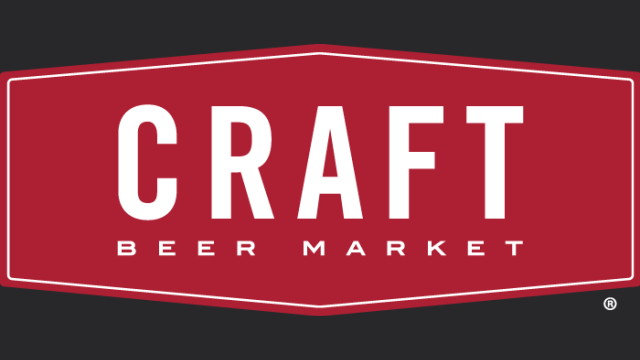
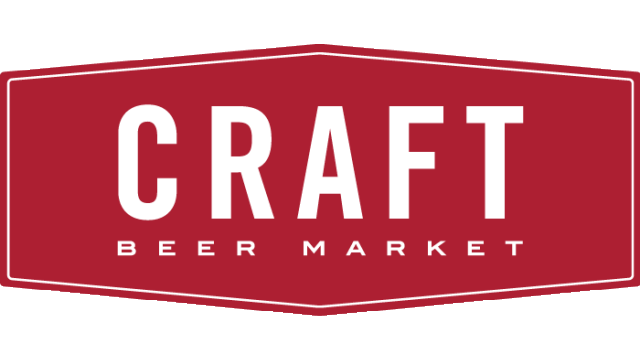
new images and card data for nightlife

diff --git a/src/constants/constants.js b/src/constants/constants.js
@@ -1,111 +1,173 @@
-// CARD EVENT DATA
+// NIGHTLIFE CARD DATA
 export const projects = [
-  // {
-  //   title: "National on 10th",
-  //   description: "National is a true destination for fun with friends, best-in-class craft beer, handcrafted cocktails and a thoughtfully curated food menu. The lower level of National 10 features a trendy 8-lane bowling alley complete with arcade games, music, drinks and a full menu.",
-  //   image: "/images/website-national.png",
-  //   tags: ["", "", "", ""],
-  //   // TICKETS
-  //   source: "",
-  //   // WEBPAGE LINK URL
-  //   visit: "https://www.ntnl.ca/10th-avenue",
-  //   id: 0,
-  // },
-  // {
-  //   title: "Craft",
-  //   description: "Craft is a premium casual restaurant and bar with a passion for fresh local food and great craft beer. Launched in Calgary in 2011, the CRAFT movement has been spreading across Canada ever since.",
-  //   image: "/images/craft-nobg.png",
-  //   tags: ["", ""],
-  //   // TICKETS
-  //   source: "",
-  //   // WEBPAGE LINK URL
-  //   visit: "https://www.craftbeermarket.ca/",
-  //   id: 1,
-  // },
-  // {
-  //   title: "Greta Bar",
-  //   description: "It's all fun and games at your favourite arcade bar. Join us at GRETA in YYC or YEG for good times, great food, and the best games.",
-  //   image: "/images/website-greta.png",
-  //   tags: ["", ""],
-  //   // TICKETS
-  //   source: "",
-  //   // WEBPAGE LINK URL
-  //   visit: "https://www.gretabar.com/",
-  //   id: 2,
-  // },
-  // {
-  //   title: "Wildhorse Saloon",
-  //   description: "The Wildhorse Saloon is your destination for the greatest Stampede Party in Calgary. Located in the heart of downtown, they have daily concerts, western barbecue, Double Zero pizza, a non-stop dance floor, an outdoor midway, and 20+ bars serving drinks that will knock your boots off!",
-  //   image: "/images/stampede-wildhorse.png",
-  //   tags: ["", "", ""],
-  //   // TICKETS
-  //   source: "",
-  //   // WEBPAGE LINK URL
-  //   visit: "https://www.wildhorsesaloon.ca/",
-  //   id: 3,
-  // },
-  // {
-  //   title: "National Saloon",
-  //   description: "Located behind National 10th in the heart of Calgary’s beltline is the newest tent experience. Live music, great food and the good times you know and love from National. Your one-stop-shop this summer for all your partying needs.",
-  //   image: "/images/stampede-ntnlsaloon.png",
-  //   tags: ["", "", ""],
-  //   // TICKETS
-  //   source: "",
-  //   // WEBPAGE LINK URL
-  //   visit: "https://www.ntnlsaloon.ca/",
-  //   id: 4,
-  // },
-  // {
-  //   title: "Cowboys",
-  //   description:
-  //     "The World Famous Cowboys Dance Hall. Calgary's biggest nightclub featuring country and top 40 music, weekly events and live music. The most fun you can have with your boots on!",
-  //   image: "/images/stampede-cowboys.png",
-  //   tags: ["", "", ""],
-  //   // TICKETS
-  //   source: "",
-  //   // WEBPAGE LINK URL
-  //   visit: "https://www.cowboysmusicfestival.com/",
-  //   id: 5,
-  // },
-  // {
-  //   title: "Badlands Festival",
-  //   description:
-  //     "The Badlands Festival is a series of electronic and hip-hop shows that takes place downtown during the famous Calgary Stampede.",
-  //   image: "/images/stampede-badlands.png",
-  //   tags: ["", "", ""],
-  //   // TICKETS
-  //   source: "",
-  //   // WEBPAGE LINK URL
-  //   visit: "https://www.badlandsmusicfest.com/",
-  //   id: 6,
-  // },
-  // {
-  //   title: 'Unichat',
-  //   description: "This is a code repository for the corresponding video tutorial. In this video, we will create a full Realtime Chat Application",
-  //   image: '/images/',
-  //   tags: ['React', '', ''],
-  //   source: 'https://google.com',
-  //   visit: 'https://google.com',
-  //   id: 7,
-  // },
-  // {
-  //   title: 'Unichat',
-  //   description: "This is a code repository for the corresponding video tutorial. In this video, we will create a full Realtime Chat Application",
-  //   image: '/images/',
-  //   tags: ['React', '', ''],
-  //   source: 'https://google.com',
-  //   visit: 'https://google.com',
-  //   id: 8,
-  // },
-  // {
-  //   title: 'Unichat',
-  //   description: "This is a code repository for the corresponding video tutorial. In this video, we will create a full Realtime Chat Application",
-  //   image: '/images/',
-  //   tags: ['React', '', ''],
-  //   source: 'https://google.com',
-  //   visit: 'https://google.com',
-  //   id: 9,
-  // },
+  {
+    title: "National on 10th",
+    description: "National is a true destination for fun with friends, best-in-class craft beer, handcrafted cocktails and a thoughtfully curated food menu. The lower level of National 10 features a trendy 8-lane bowling alley complete with arcade games, music, drinks and a full menu.",
+    image: "/images/website-national.png",
+    tags: ["", "", "", ""],
+    // TICKETS/GLIST
+    source: "",
+    // WEBPAGE LINK URL
+    visit: "https://www.ntnl.ca/10th-avenue",
+    id: 0,
+  },
+  {
+    title: "Craft",
+    description: "Craft is a premium casual restaurant and bar with a passion for fresh local food and great craft beer. Launched in Calgary in 2011, the CRAFT movement has been spreading across Canada ever since.",
+    image: "/images/website-craft.png",
+    tags: ["", ""],
+    // TICKETS
+    source: "",
+    // WEBPAGE LINK URL
+    visit: "https://www.craftbeermarket.ca/",
+    id: 1,
+  },
+  {
+    title: "Greta Bar",
+    description: "It's all fun and games at your favourite arcade bar. Join us at GRETA in YYC or YEG for good times, great food, and the best games.",
+    image: "/images/website-greta.png",
+    tags: ["", ""],
+    // TICKETS
+    source: "",
+    // WEBPAGE LINK URL
+    visit: "https://www.gretabar.com/",
+    id: 2,
+  },
+  {
+    title: "Honky-tonk",
+    description: "A new country saloon-style bar, just opened on 10th Avenue, making it an ideal location to dance the night away.",
+    image: "/images/website-honkeytonk.png",
+    tags: ["", "", ""],
+    // TICKETS
+    source: "",
+    // WEBPAGE LINK URL
+    visit: "",
+    id: 3,
+  },
+  {
+    title: "Whiskey Rose",
+    description: "Whiskey Rose Saloon is a bar to come together, listen to all kinds of music, and knock back a bourbon (or six).",
+    image: "/images/website-whiskeyrose.png",
+    tags: ["", "", ""],
+    // TICKETS
+    source: "",
+    // WEBPAGE LINK URL
+    visit: "https://whiskeyrosesaloon.com/",
+    id: 4,
+  },
+  {
+    title: "Cowboys",
+    description:
+      "The World Famous Cowboys Dance Hall. Calgary's biggest nightclub featuring country and top 40 music, weekly events and live music. The most fun you can have with your boots on!",
+    image: "/images/website-cowboys.png",
+    tags: ["", "", ""],
+    // TICKETS
+    source: "",
+    // WEBPAGE LINK URL
+    visit: "https://www.cowboysmusicfestival.com/",
+    id: 5,
+  },
+  {
+    title: "Trolley5",
+    description:
+      "Industrial-style space with outdoor seating serving house-brewed beers, burgers, pizza & BBQ.",
+    image: "/images/website-trolley5.png",
+    tags: ["", "", ""],
+    // TICKETS
+    source: "",
+    // WEBPAGE LINK URL
+    visit: "https://trolley5.com/",
+    id: 6,
+  },
+  {
+    title: "One Night Stan's",
+    description: "One Night Stan's is the kind of place where you can feel comfortable in a three piece suit, yoga pants, or anything in between.",
+    image: "/images/website-onenightstans.png",
+    tags: ['React', '', ''],
+    // TICKETS/GLIST
+    source: '',
+    // WEBPAGE LINK URL
+    visit: 'https://www.onenightstans.ca/',
+    id: 7,
+  },
+  {
+    title: 'Ship and Anchor',
+    description: "Low-key watering hole offering casual bar fare, sports on TV & occasional live music, plus a patio.",
+    image: '/images/website-shipandanchor.png',
+    tags: ['React', '', ''],
+    // TICKETS/GLIST
+    source: '',
+    // WEBPAGE LINK URL
+    visit: 'https://shipandanchor.com/',
+    id: 8,
+  },
+  {
+    title: 'The Palace',
+    description: "This multi-function venue will be home to everything from concerts, musical performances, seminars, symposiums & corporate events. All with our state-of-the art cinema sound system!",
+    image: '/images/website-palace.png',
+    tags: ['React', '', ''],
+    // TICKETS/GLIST
+    source: '',
+    // WEBPAGE LINK URL
+    visit: 'https://www.thepalacetheatre.ca/',
+    id: 9,
+  },
+  {
+    title: "Hudson's",
+    description: "Canada's pub is your go-to for great deals and happy hour specials!",
+    image: '/images/website-hudsons.png',
+    tags: ['React', '', ''],
+    // TICKETS/GLIST
+    source: '',
+    // WEBPAGE LINK URL
+    visit: 'https://hudsonscanadaspub.com/',
+    id: 10,
+  },
+  {
+    title: 'The Back Alley',
+    description: "The Back Alley Nightclub is over 12000 feet and harbours 4 themed bars which include Bacardi, Jack, Red Bull and Jamesons.",
+    image: '/images/website-backalley.png',
+    tags: ['React', '', ''],
+    // TICKETS/GLIST
+    source: '',
+    // WEBPAGE LINK URL
+    visit: 'https://backalleycalgary.com/',
+    id: 11,
+  },
+  {
+    title: 'Commonwealth',
+    description: "Rustic-chic nightclub with DJ shows & dance floors on 2 floors, plus a menu of upscale bar bites.",
+    image: '/images/website-commonwealth.png',
+    tags: ['React', '', ''],
+    // TICKETS/GLIST
+    source: '',
+    // WEBPAGE LINK URL
+    visit: 'https://www.commonwealthbar.ca/',
+    id: 12,
+  },
+  {
+    title: "Ranchman's",
+    description: "Western bar with a dance floor, stage & mechanical bull, plus a pub menu of burgers, ribs & wings.",
+    image: '/images/website-ranchmans.png',
+    tags: ['React', '', ''],
+    // TICKETS/GLIST
+    source: '',
+    // WEBPAGE LINK URL
+    visit: 'https://www.ranchmans.ca/',
+    id: 13,
+  },
+  {
+    title: 'The Banquet',
+    description: "Premium Bar, a bowling alley, patio, games & more in Calgary's University district!",
+    image: '/images/website-banquet.png',
+    tags: ['React', '', ''],
+    // TICKETS/GLIST
+    source: '',
+    // WEBPAGE LINK URL
+    visit: 'https://thebanquetbar.com/',
+    id: 14,
+  },
+
 ];
 
 // CAROUSEL TIMELINE
